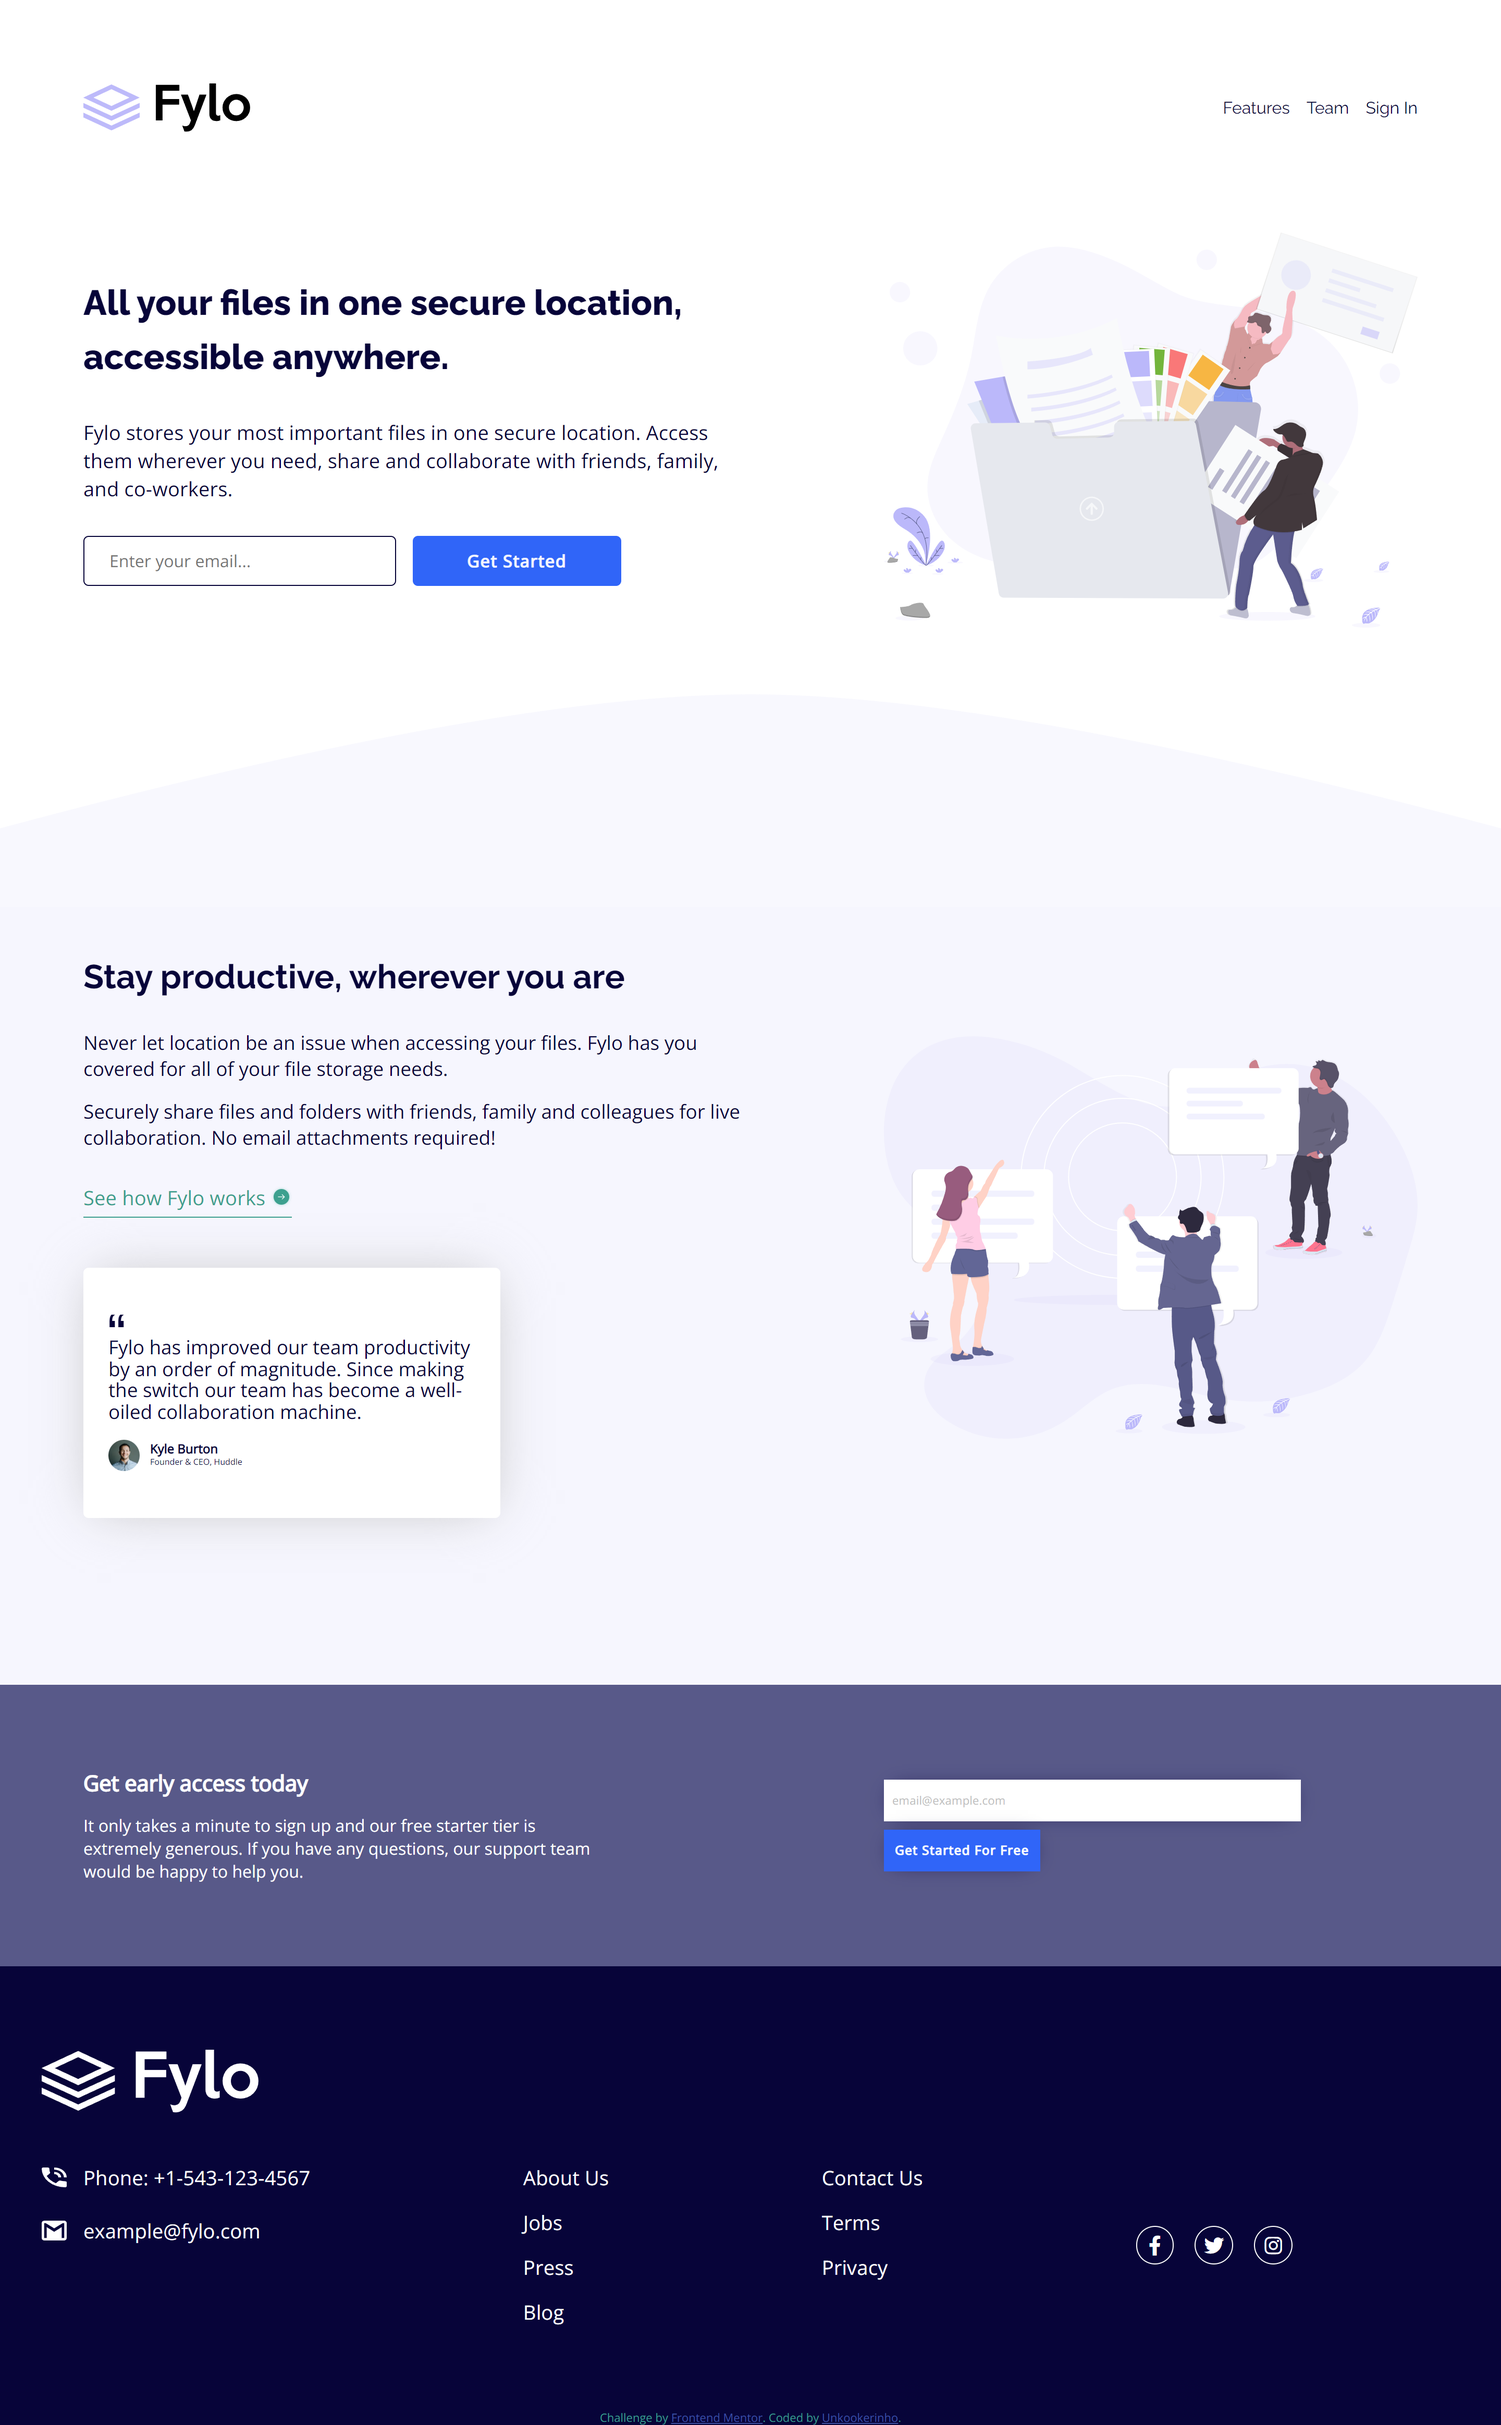
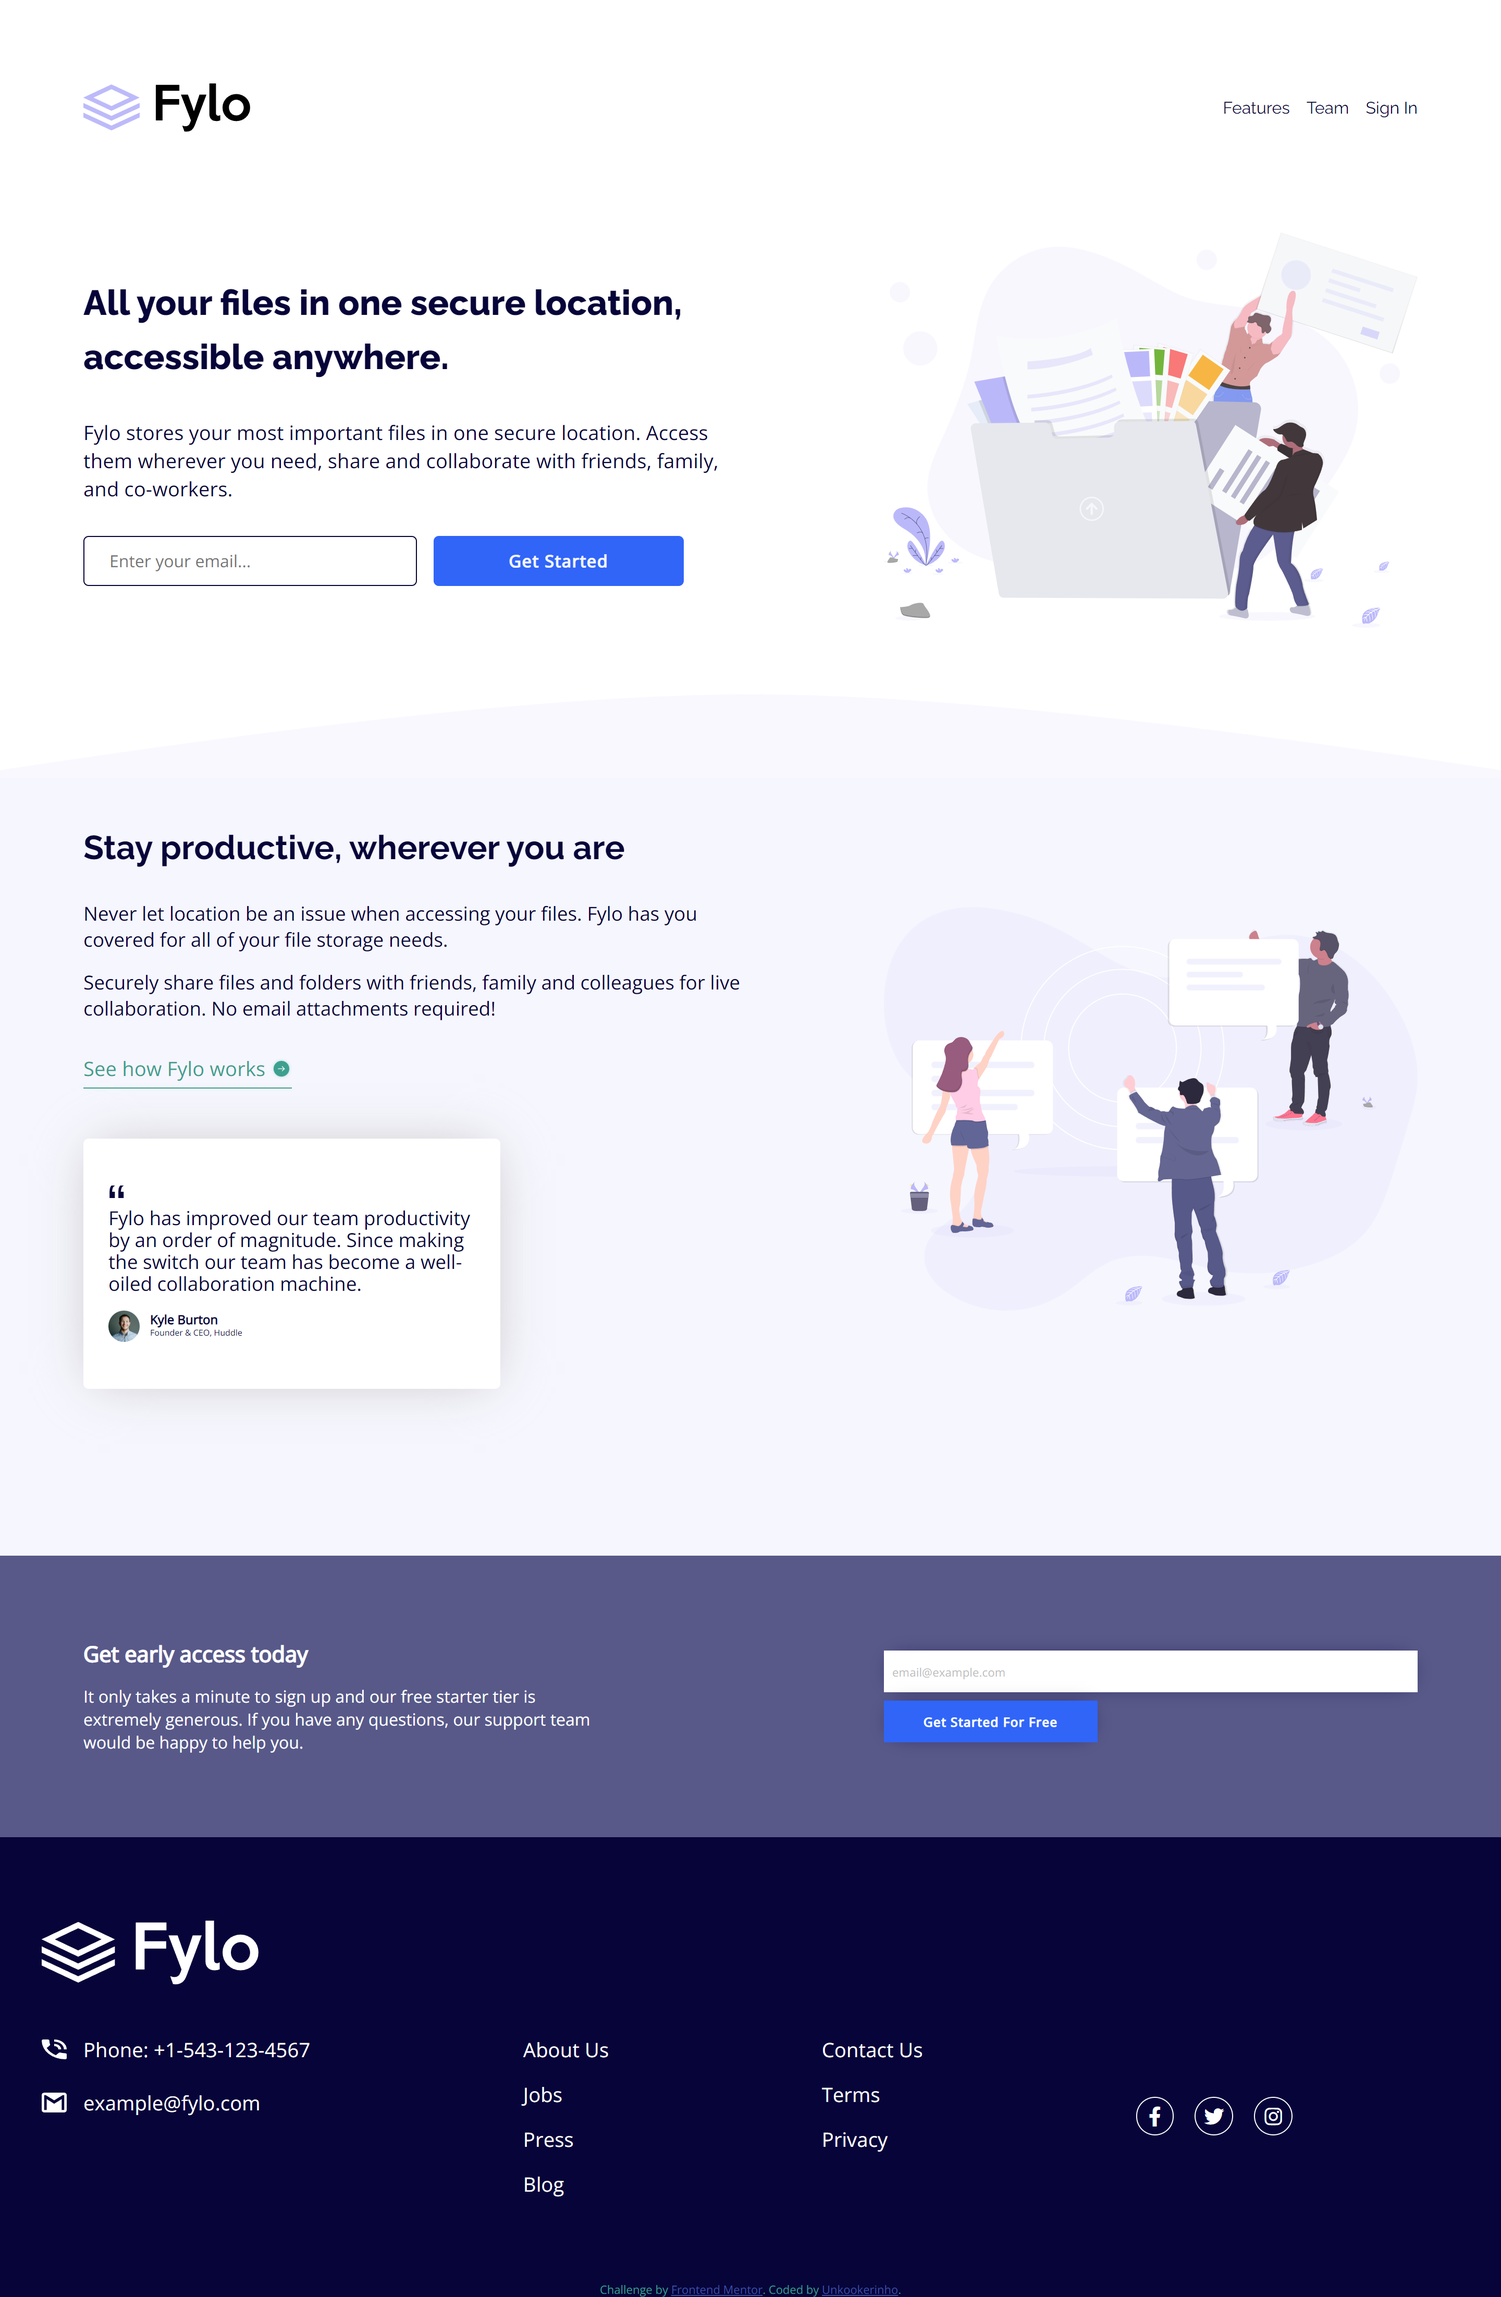
Desktop appearance fixes

diff --git a/style.css b/style.css
@@ -161,6 +161,13 @@ h1 {
     ABOUT SECTION
 */
 
+.curve {
+    background-image: url(images/bg-curve-mobile.svg);
+    background-size: cover;
+    width: 100%;
+    height: 80px;
+}
+
 .about {
     background-color: var(--clr-Light-Grayish-Blue);
     display: flex;
@@ -329,6 +336,7 @@ button span {
 
 
 .form2 {
+    min-width: fit-content;
     width: 100%;
     display: flex;
     flex-direction: column;
@@ -510,13 +518,17 @@ li:hover {
     }
     .form1 {
         flex-direction: row;
-        justify-content: center;
+        width: 100%;
     }
     #email {
-        width: 300px;
+        width: 20rem;
     }
     #submit {
-        width: 200px;
+        width: 15rem;
+    }
+
+    .curve {
+        background-image: url(images/bg-curve-desktop.svg);
     }
 
     .about {
@@ -557,26 +569,25 @@ li:hover {
         flex-direction: row;
         justify-content: space-between;
         padding: 5rem;
+        text-align: start;
     }
 
     .early-access .text {
         width: 40%;
-        text-align: start;
     }
 
     .early-access .form2 {
-        align-items: flex-start;
         width: 40%;
     }
 
     #email2 {
-        width: 400px;
+        width: 100%;
         height: 2.5rem;
         
     }
 
     #submit2 {
-        width: 150px;
+        width: 40%;
         height: 2.5rem;
     }
 

diff --git a/index.html b/index.html
@@ -64,7 +64,8 @@
         </form>
       </div>
     </main>
-    <img src="images/bg-curve-mobile.svg" />
+
+    <div class="curve"></div>
     <section class="about">
       <img class="illustration" src="images/illustration-2.svg" alt="" />
       <div class="description">

diff --git a/README.md b/README.md
@@ -8,5 +8,5 @@ This is a solution to the [Fylo landing page with two column layout challenge on
 
 ### Links
 
-- Solution URL:
-- Live Site URL:
+- Solution URL: https://www.frontendmentor.io/solutions/fylo-landing-page-with-two-column-layout-solution-oXi-VsTqMO
+- Live Site URL: https://unkookerinho.github.io/Fylo-landing-page-with-two-column-layout-solution/
